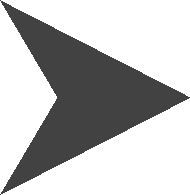
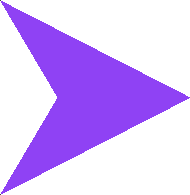
Added footer buttons and reset function

diff --git a/app.js b/app.js
@@ -3,6 +3,8 @@ var STAGE_WIDTH, STAGE_HEIGHT;
 
 var circleRadius = 150;
 
+var stageVectors = [];
+
 function init() {
   STAGE_WIDTH = parseInt(document.getElementById("gameCanvas").getAttribute("width"));
 	STAGE_HEIGHT = parseInt(document.getElementById("gameCanvas").getAttribute("height"));
@@ -33,7 +35,7 @@ function drawForceTable() {
 
   // Draw circle.
   forceTable.graphics.setStrokeStyle(2);
-  forceTable.graphics.beginStroke("blue");
+  forceTable.graphics.beginStroke("#42bcf4");
   forceTable.graphics.drawCircle(STAGE_WIDTH/2, STAGE_HEIGHT/2, circleRadius);
 
   // Draw dashed lines.
@@ -53,7 +55,7 @@ function drawVector(vector) {
 
   var arrow = new createjs.Shape();
   arrow.graphics.setStrokeStyle(3);
-  arrow.graphics.beginStroke("purple");
+  arrow.graphics.beginStroke("#8f42f4");
   arrow.graphics.moveTo(STAGE_WIDTH/2, STAGE_HEIGHT/2);
 
   let x = circleRadius * Math.cos(toRadians(vector.direction)) + STAGE_WIDTH/2;
@@ -85,7 +87,8 @@ function drawVector(vector) {
   }
   stage.addChild(vectorText);
 
-
+  // Store all vector objects so they can be removed later.
+  stageVectors.push({shape: arrow, arrowHead: arrowHeadClone, text: vectorText});
   stage.update();
 }
 
@@ -108,6 +111,25 @@ function getThreeRandomVectors() {
     });
   }
   return vectors;
+}
+
+function reset() {
+
+  // Clear answer text inputs.
+  $("#magnitude, #direction").val("");
+
+  // Remove existing vectors.
+  for (var v of stageVectors) {
+    stage.removeChild(v.shape);
+    stage.removeChild(v.arrowHead);
+    stage.removeChild(v.text);
+  }
+
+  // Add 3 new random vectors.
+  var vectors = getThreeRandomVectors();
+  for (var vector of vectors) {
+    drawVector(vector);
+  }
 }
 
 function toDegrees (angle) {

diff --git a/index.html b/index.html
@@ -18,13 +18,17 @@
       <h2>Enter Your Answer</h2>
       <label>Magnitude of the missing force in Newtons:</label>
       <br>
-      <input type="text" name="magnitude">
+      <input type="text" name="magnitude" id="magnitude" placeholder="Newtons">
       <br>
       <label>Direction of the missing force in degrees:</label>
       <br>
-      <input type="text" name="direction">
+      <input type="text" name="direction" id="direction" placeholder="Degrees">
       <br>
       <button id="submit" onclick="checkAnswer()">Check</button>
+    </div>
+    <div id="footer">
+      <button id="instructions" onclick="showInstructions()">Show Instructions</button>
+      <button id="reset" onclick="reset()">New Vectors</button>
     </div>
   </div>
 </body>

diff --git a/style/style.css b/style/style.css
@@ -21,6 +21,7 @@ canvas {
 
 #controls {
   height: 400px;
+  margin-right: 1em;
 }
 
 #controls input[type='text'] {
@@ -29,6 +30,8 @@ canvas {
   padding: 5px 5px;
   box-sizing: border-box;
   font-size: 20px;
+  width: 100px;
+  text-align: center;
 }
 
 button#submit {
@@ -41,4 +44,27 @@ button#submit {
   display: inline-block;
   font-size: 16px;
   cursor: pointer;
+}
+
+#footer {
+  margin-bottom: 1em;
+}
+
+#footer button {
+  border: none;
+  color: black;
+  padding: 10px 20px;
+  text-align: center;
+  text-decoration: none;
+  display: inline-block;
+  font-size: 14px;
+  cursor: pointer;
+}
+
+#footer button#instructions {
+  background-color: #f49241;
+}
+
+#footer button#reset {
+    background-color: #adadad;
 }
